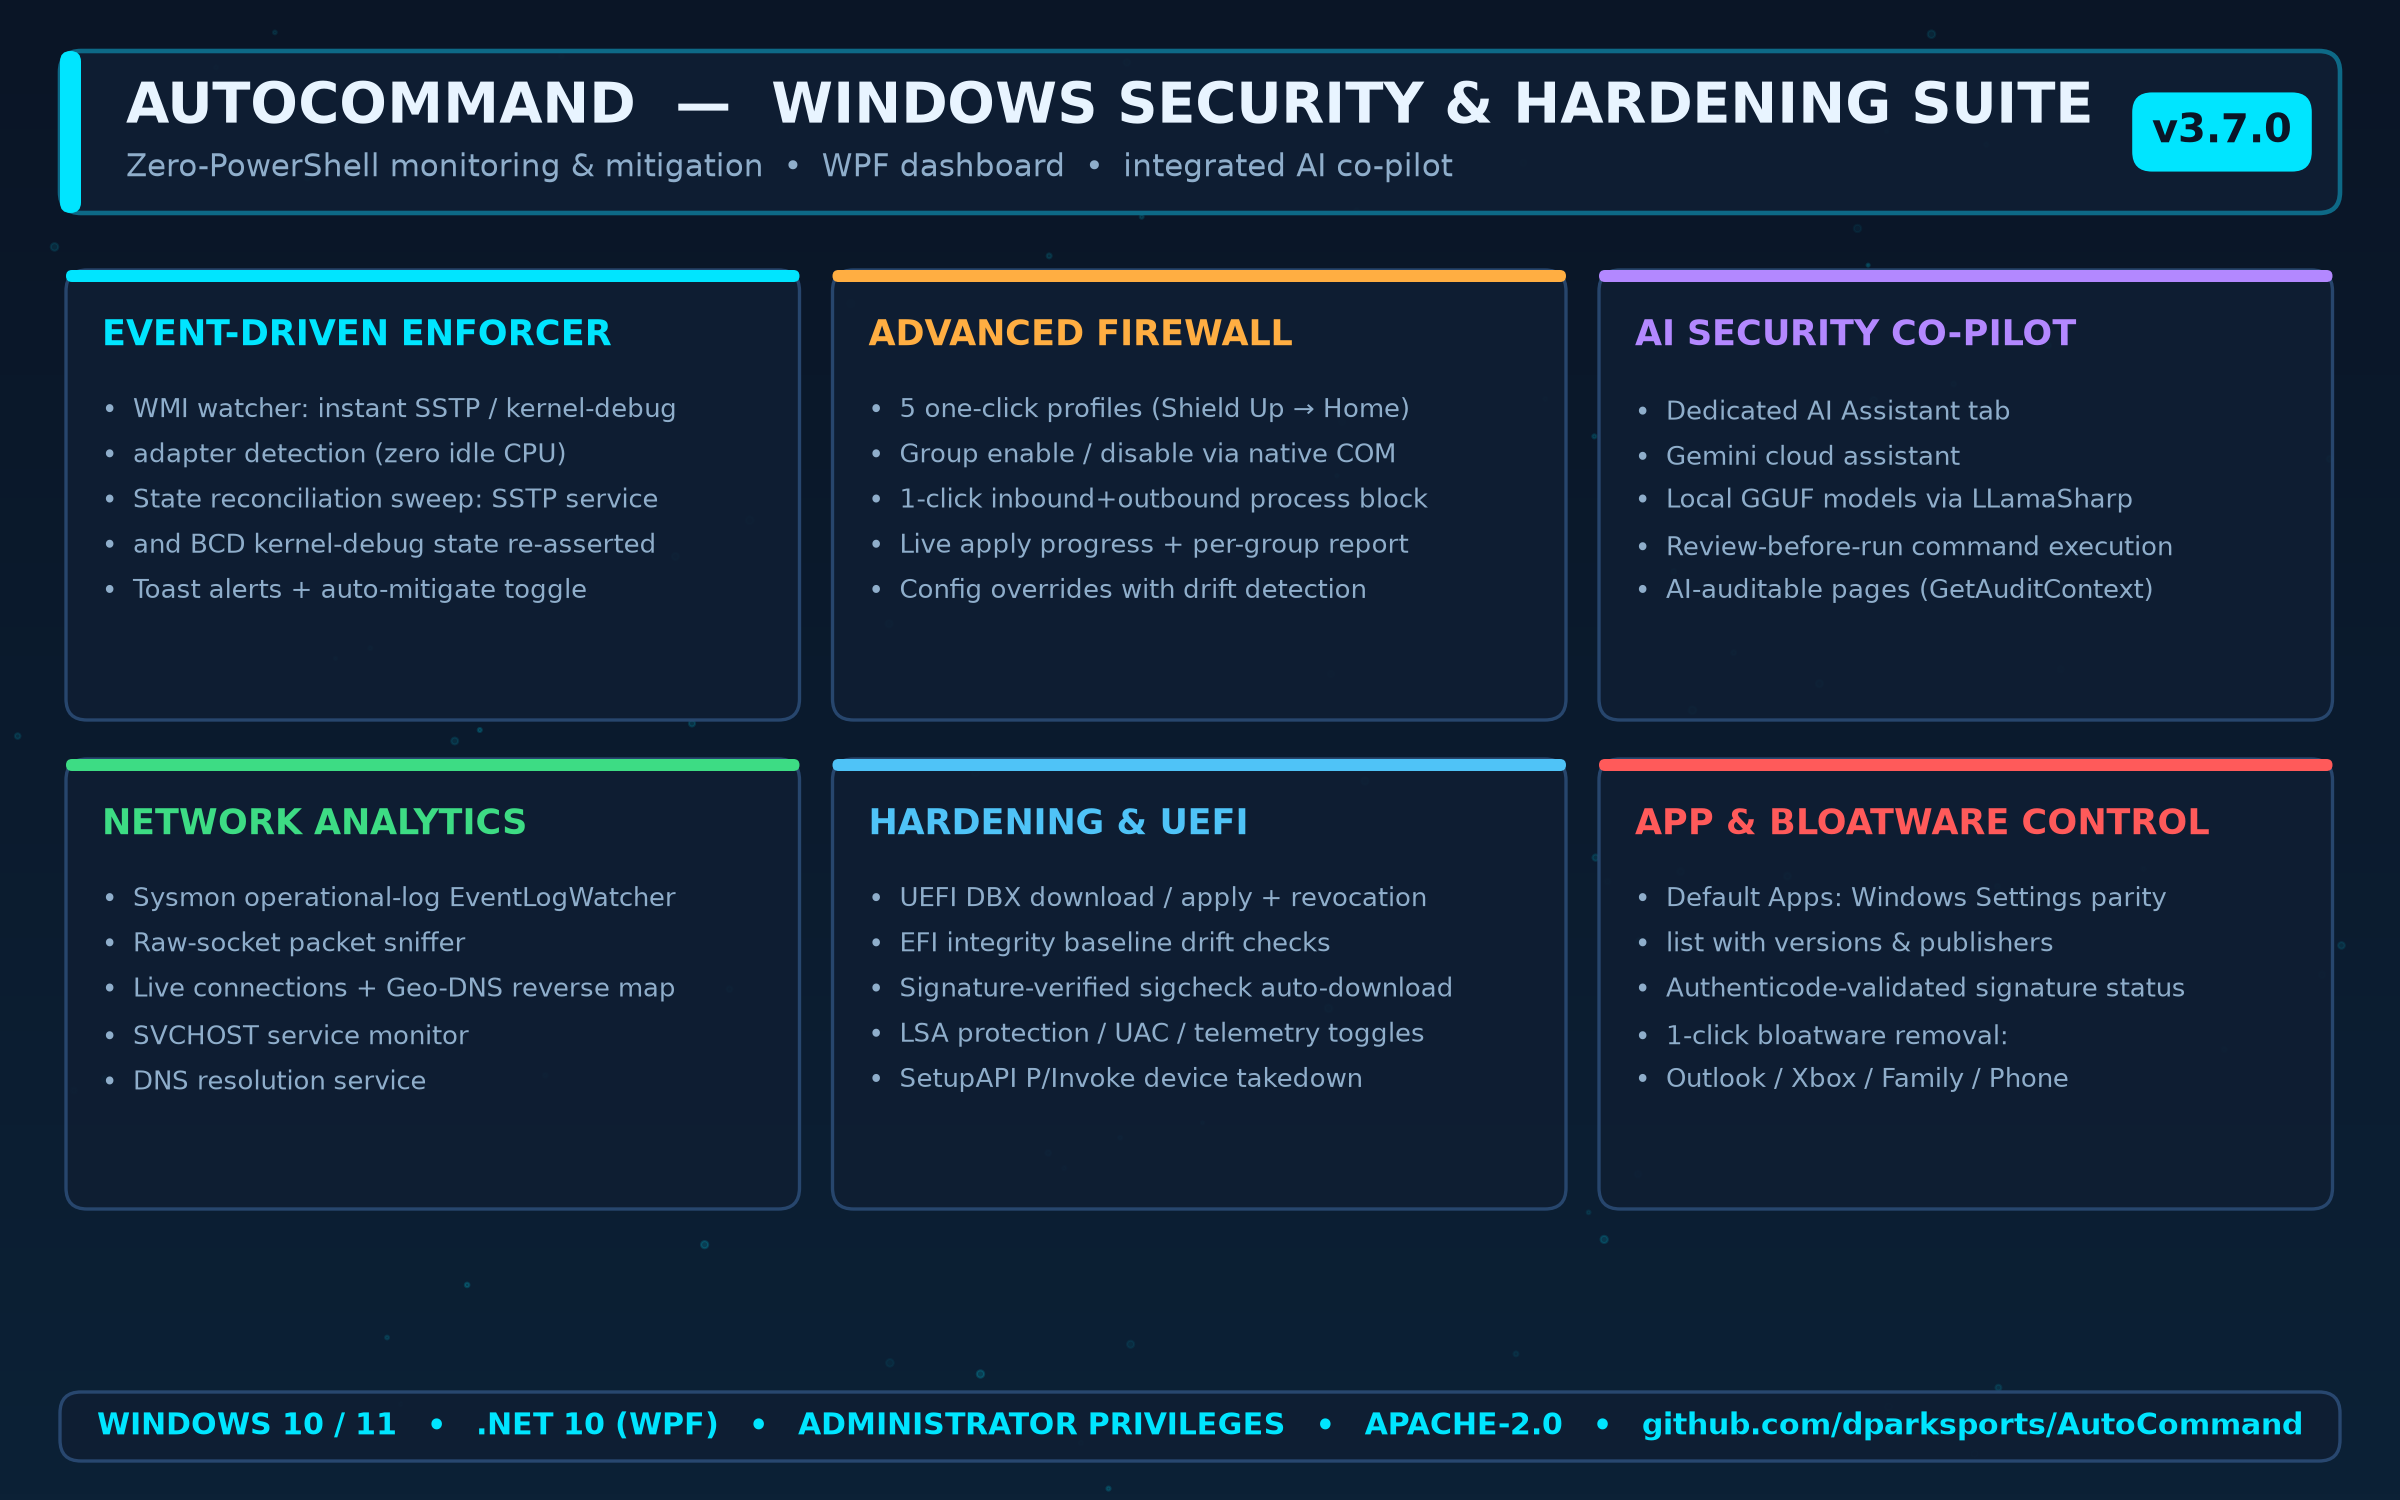
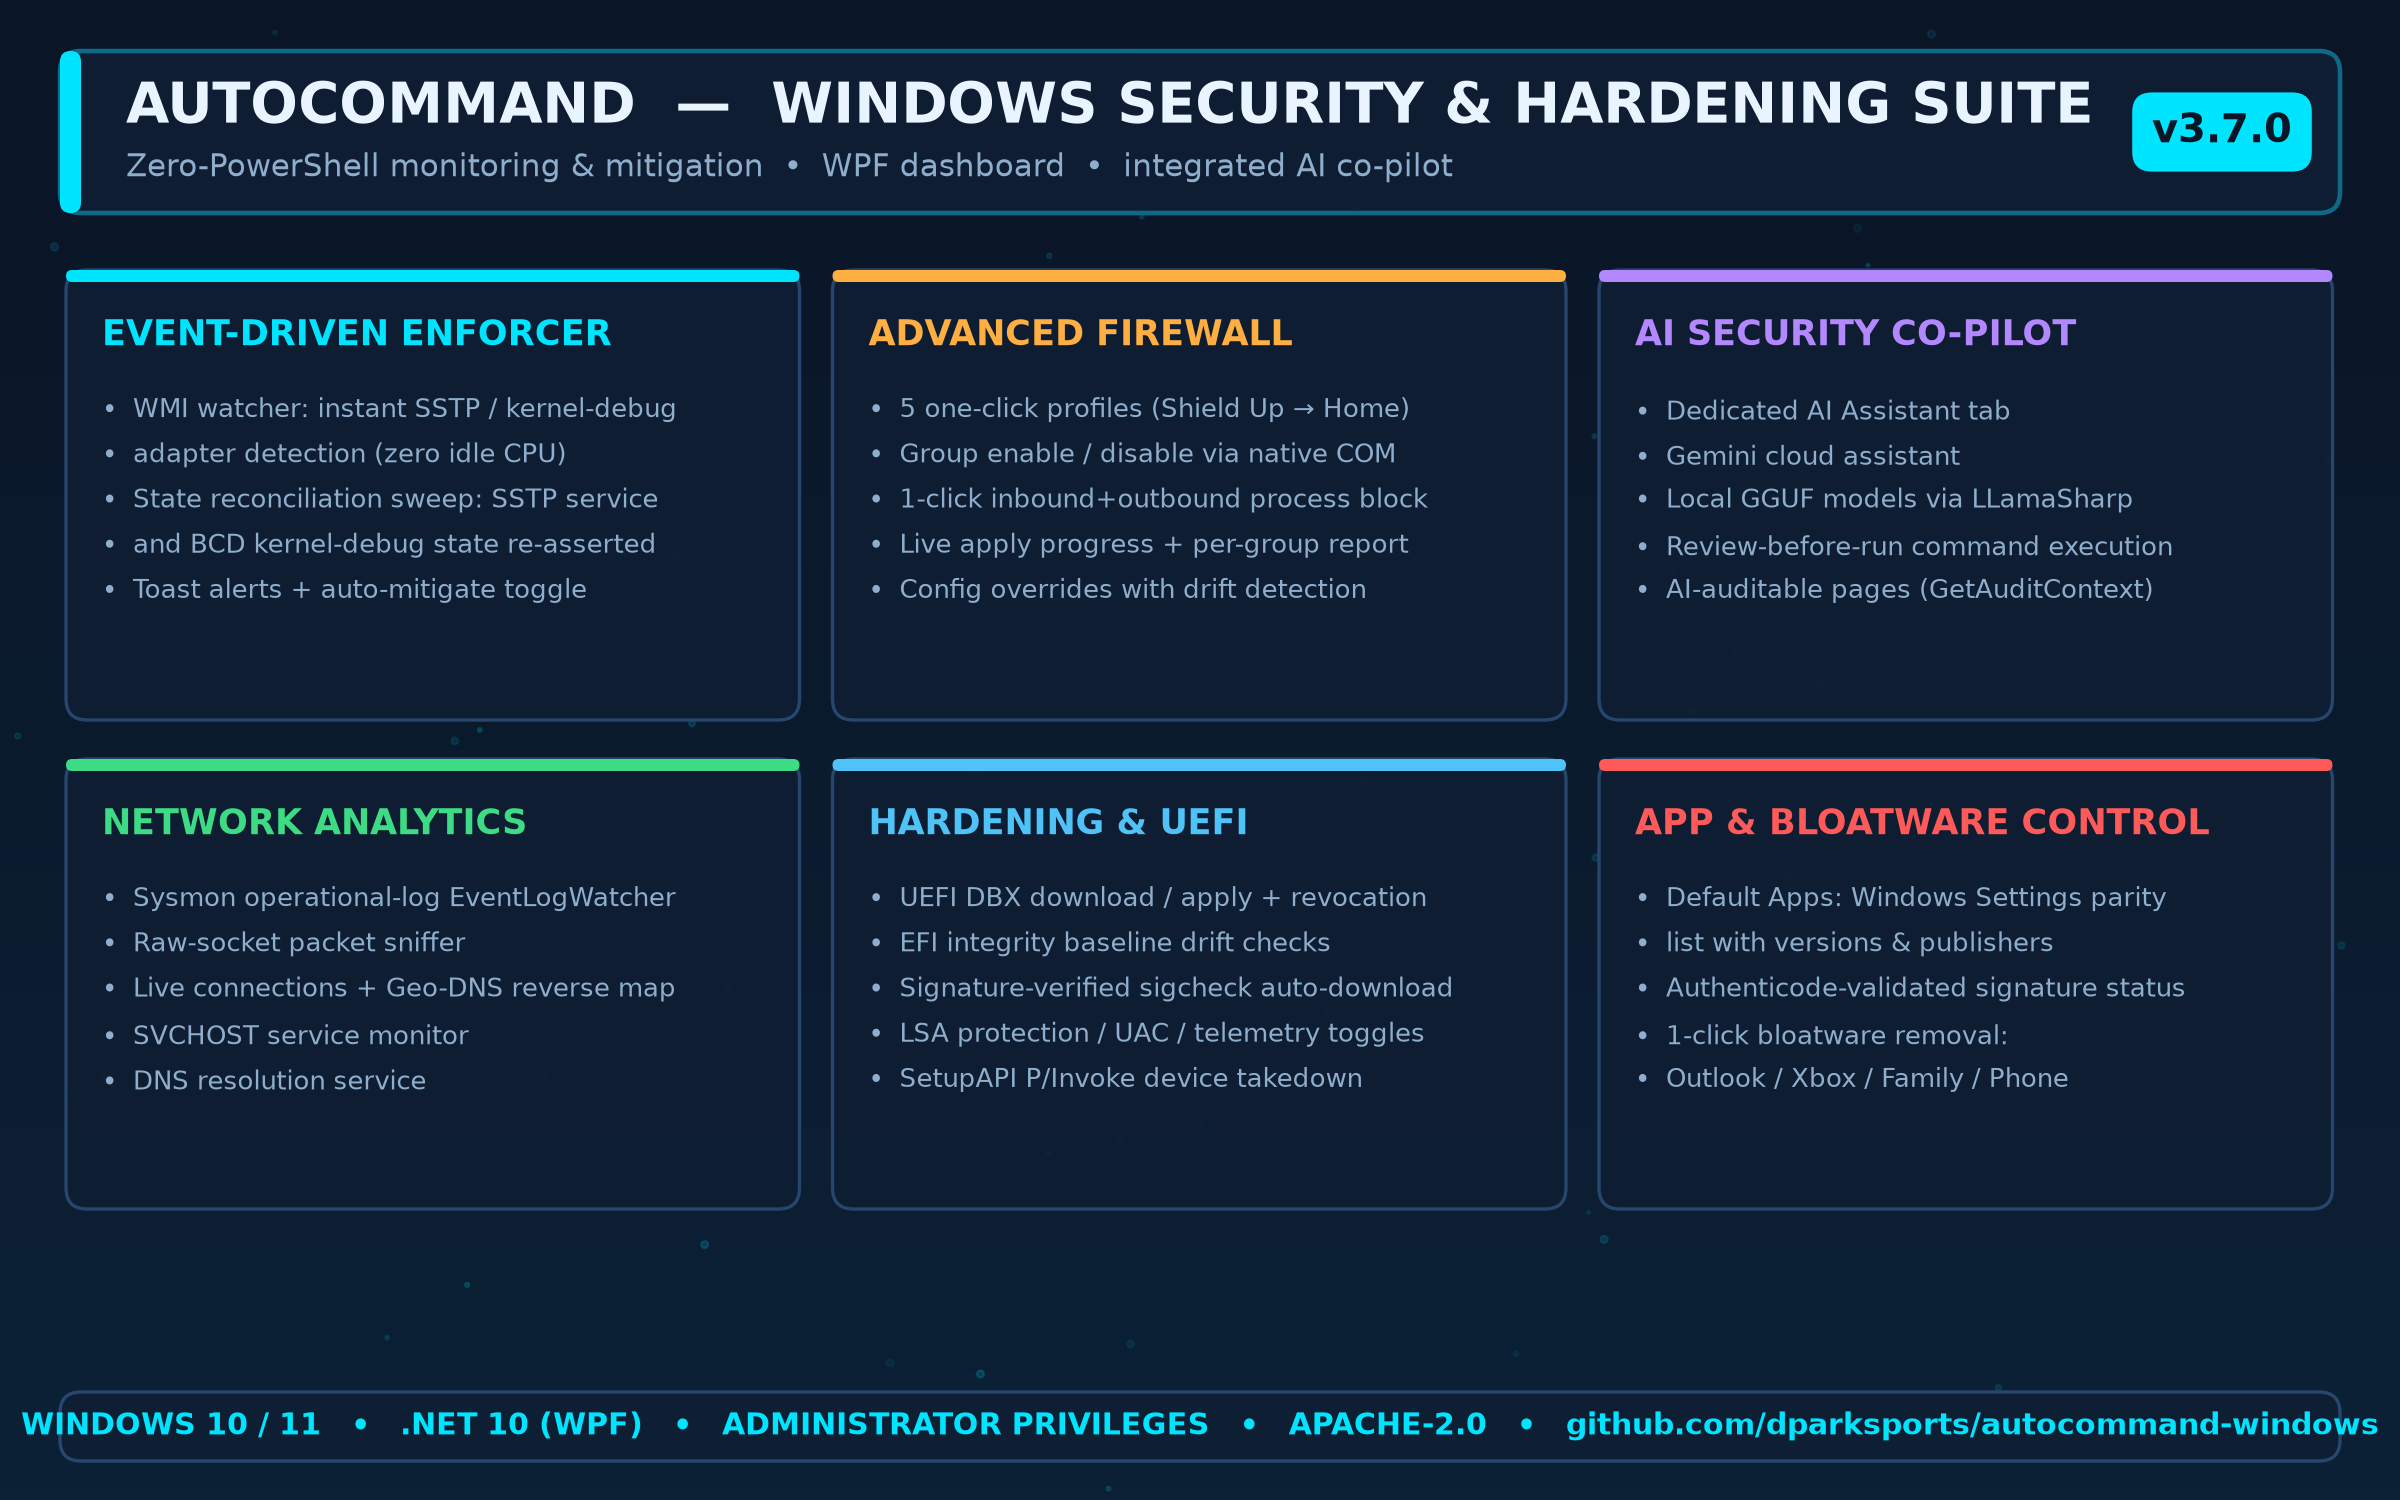
docs: update repo URLs for autocommand-windows rename

Changed region(s): [[0.0, 0.92, 0.9062, 0.9813], [0.9375, 0.92, 0.9688, 0.9813]]

diff --git a/Assets/generate_infographics.py b/Assets/generate_infographics.py
@@ -204,7 +204,7 @@ def stack_infographic():
         body = "\n".join("•  " + b for b in bullets)
         ax.text(x + 24, y + 78, body, color=SUB, fontsize=12.4, va="top", linespacing=1.75)
 
-    footer(ax, "WINDOWS 10 / 11   •   .NET 10 (WPF)   •   ADMINISTRATOR PRIVILEGES   •   APACHE-2.0   •   github.com/dparksports/AutoCommand")
+    footer(ax, "WINDOWS 10 / 11   •   .NET 10 (WPF)   •   ADMINISTRATOR PRIVILEGES   •   APACHE-2.0   •   github.com/dparksports/autocommand-windows")
 
     out = os.path.join(os.path.dirname(os.path.abspath(__file__)), "security_stack_infographic.png")
     fig.savefig(out, dpi=150)

diff --git a/README.md b/README.md
@@ -4,7 +4,7 @@
 
 **AutoCommand** is an enterprise-grade C# WPF security and OS hardening suite for Windows 10 and 11. It delivers zero-PowerShell threat monitoring, self-healing network-adapter defense, native COM firewall management with one-click profiles, UEFI/Secure Boot integrity checks, and an integrated AI command assistant — all from a single administrator dashboard.
 
-> **📥 Download:** grab the latest self-contained build from the [Releases page](https://github.com/dparksports/AutoCommand/releases) — no .NET installation required.
+> **📥 Download:** grab the latest self-contained build from the [Releases page](https://github.com/dparksports/autocommand-windows/releases) — no .NET installation required.
 
 ---
 
@@ -172,7 +172,7 @@ Assets/     README infographics + generator script
 
 ```powershell
 # Clone repository
-git clone https://github.com/dparksports/AutoCommand.git
+git clone https://github.com/dparksports/autocommand-windows.git
 cd AutoCommand
 
 # Build (Release)
